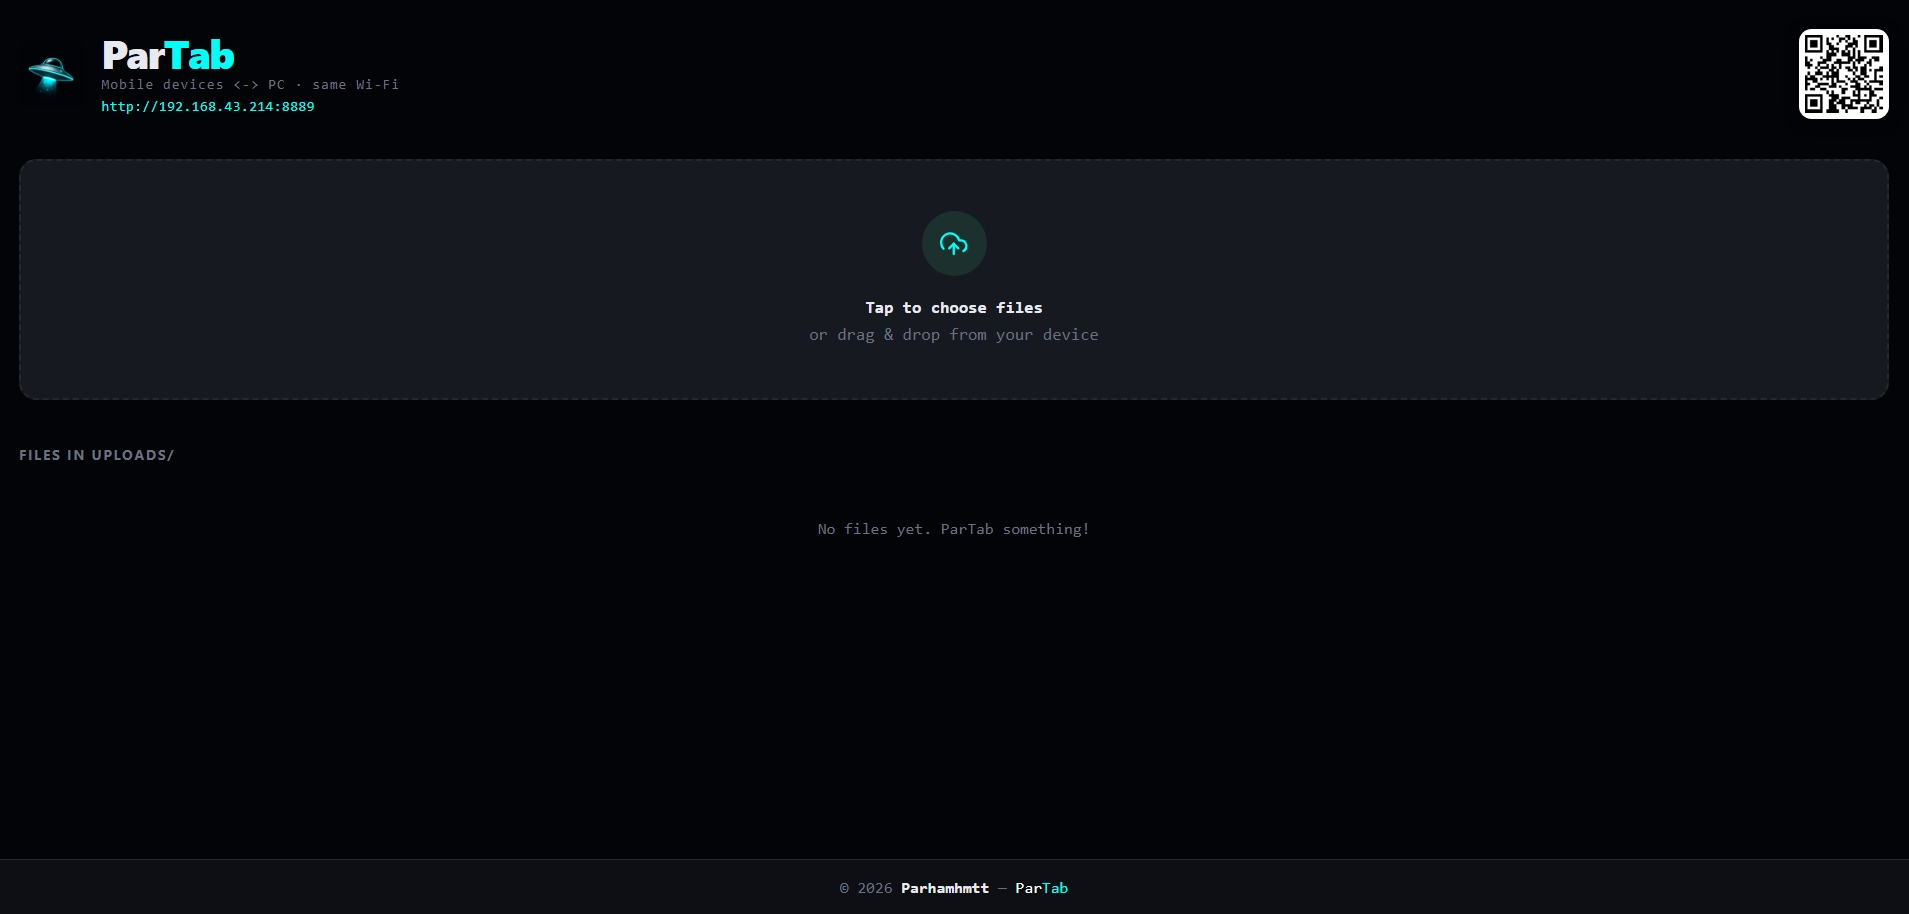
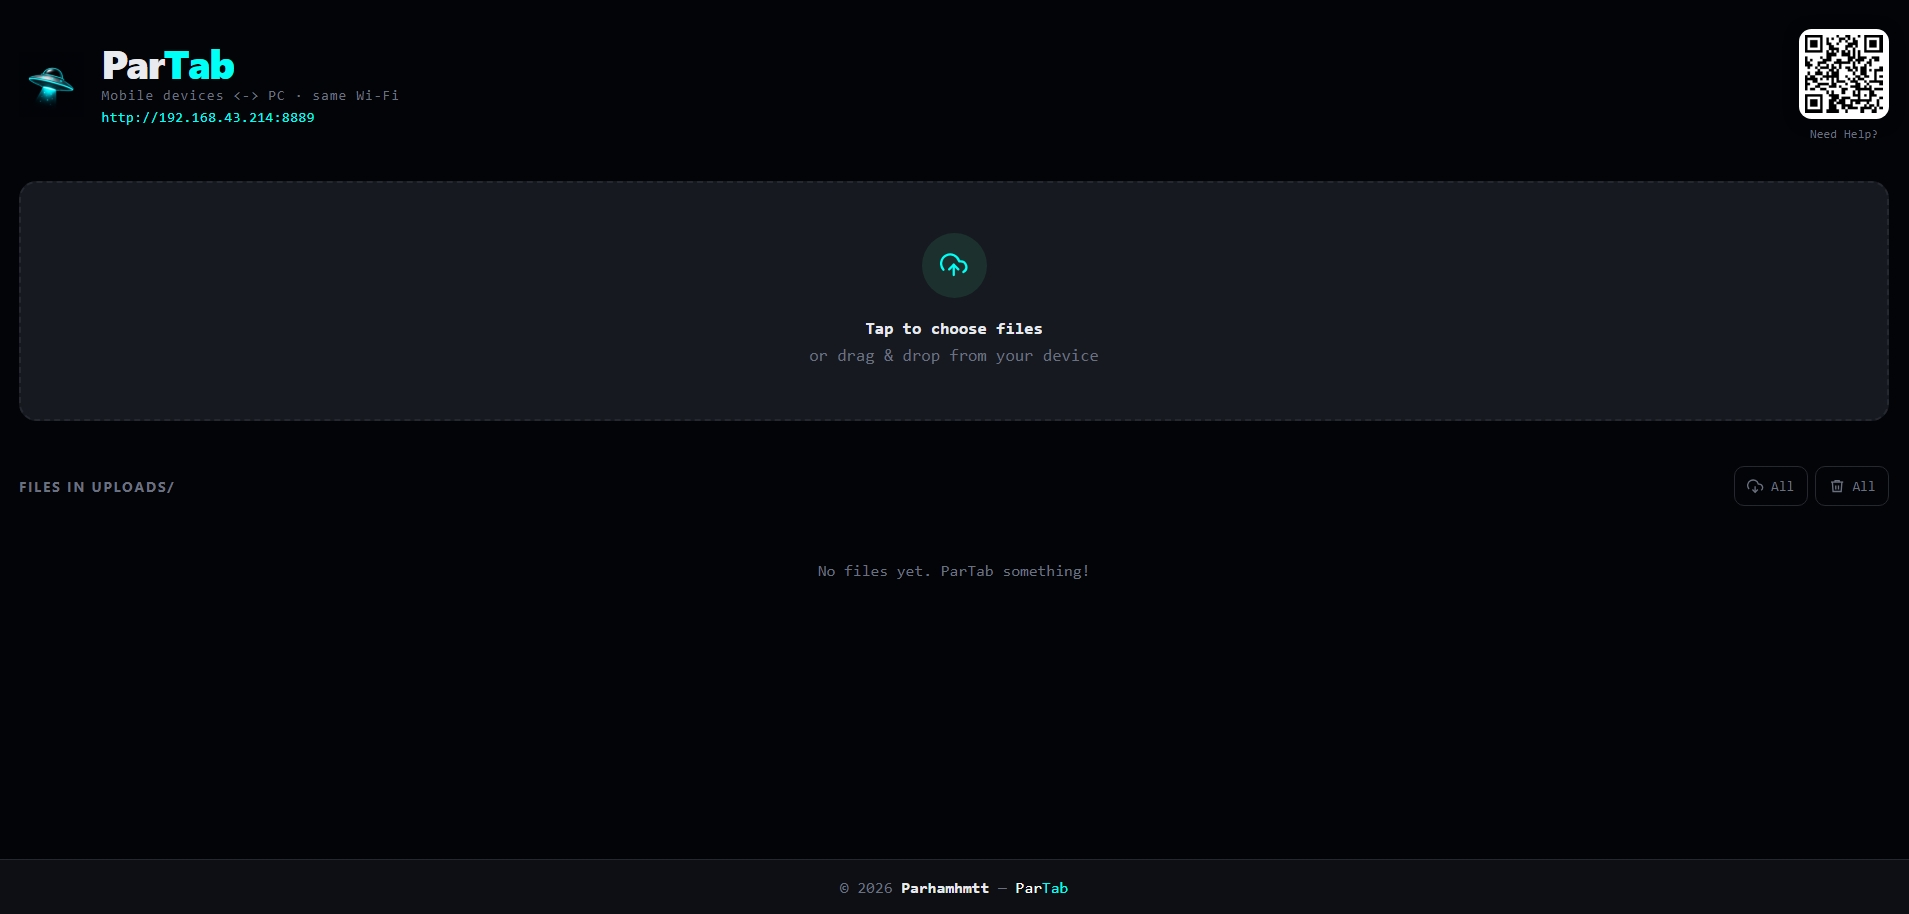
Update ParTab.py - added the download all and delete all button

diff --git a/ParTab.py b/ParTab.py
@@ -840,6 +840,11 @@ HTML_PAGE = r"""<!DOCTYPE html>
     #help-popup a:hover {
      text-decoration: underline;
     }
+    
+    #download-all-btn:hover {
+     color: var(--accent2);
+    border-color: var(--accent2);
+    }
   </style>
 </head>
 <body>
@@ -899,8 +904,19 @@ HTML_PAGE = r"""<!DOCTYPE html>
     <div id="progress-label">Uploading…</div>
   </div>
 
-  <div class="section-title">Files in uploads/</div>
-  <div id="file-list">
+<div style="display:flex; align-items:center; justify-content:space-between; margin-bottom:12px;">
+    <div class="section-title" style="margin-bottom:0">Files in uploads/</div>
+    <div style="display:flex; gap:6px;">
+      <button class="btn-icon" id="download-all-btn" title="Download all files" style="width:auto; padding:0 10px; gap:6px; display:flex; align-items:center; font-family:var(--font-mono); font-size:.7rem;">
+        <svg width="13" height="13" viewBox="0 0 24 24" fill="none" stroke="currentColor" stroke-width="2"><polyline points="8 17 12 21 16 17"/><line x1="12" y1="12" x2="12" y2="21"/><path d="M20.88 18.09A5 5 0 0018 9h-1.26A8 8 0 103 16.3"/></svg>
+        All
+      </button>
+      <button class="btn-icon danger" id="delete-all-btn" title="Delete all files" style="width:auto; padding:0 10px; gap:6px; display:flex; align-items:center; font-family:var(--font-mono); font-size:.7rem;">
+        <svg width="13" height="13" viewBox="0 0 24 24" fill="none" stroke="currentColor" stroke-width="2"><polyline points="3 6 5 6 21 6"/><path d="M19 6l-1 14H6L5 6"/><path d="M10 11v6"/><path d="M14 11v6"/><path d="M9 6V4h6v2"/></svg>
+        All
+      </button>
+    </div>
+  </div>  <div id="file-list">
     <div class="empty">No files yet.</div>
   </div>
 
@@ -1176,6 +1192,45 @@ HTML_PAGE = r"""<!DOCTYPE html>
       colorLight: '#ffffff',
       correctLevel: QRCode.CorrectLevel.M
     });
+    
+    async function downloadAll() {
+  try {
+    const r = await fetch('/api/files');
+    const files = await r.json();
+    if (!files.length) { toast('No files to download', ''); return; }
+    for (const f of files) {
+      const a = document.createElement('a');
+      a.href = '/download/' + encodeURIComponent(f.name);
+      a.download = f.name;
+      document.body.appendChild(a);
+      a.click();
+      document.body.removeChild(a);
+      await new Promise(res => setTimeout(res, 300)); // slight delay between downloads
+    }
+    toast(`⬇ ${files.length} download(s) started`, 'success');
+  } catch (e) {
+    toast('Download failed', 'error');
+  }
+}
+
+async function deleteAll() {
+  try {
+    const r = await fetch('/api/files');
+    const files = await r.json();
+    if (!files.length) { toast('No files to delete', ''); return; }
+    pausePoll();
+    await Promise.all(files.map(f => fetch('/delete/' + encodeURIComponent(f.name))));
+    toast(`🗑 ${files.length} file(s) deleted`, 'success');
+    await loadFiles();
+    resumePoll();
+     } catch (e) {
+      toast('Delete failed', 'error');
+    }
+    }
+
+    document.getElementById('download-all-btn').addEventListener('click', downloadAll);
+    document.getElementById('delete-all-btn').addEventListener('click', deleteAll);
+
   </script>
 
 <footer style="
